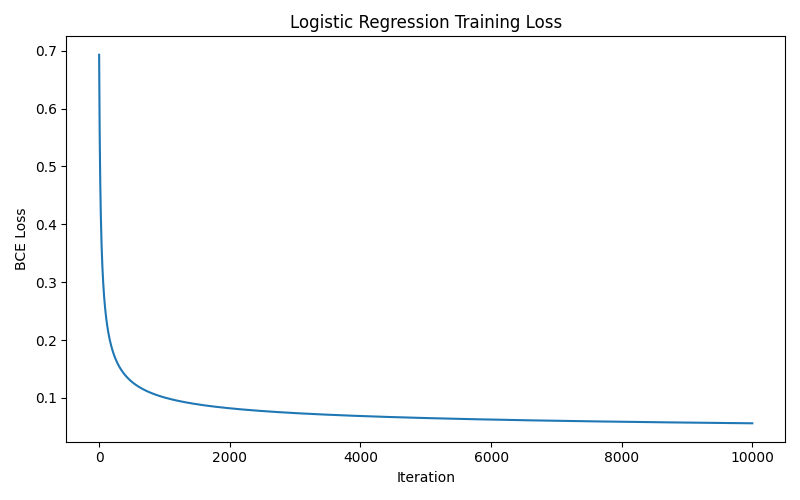
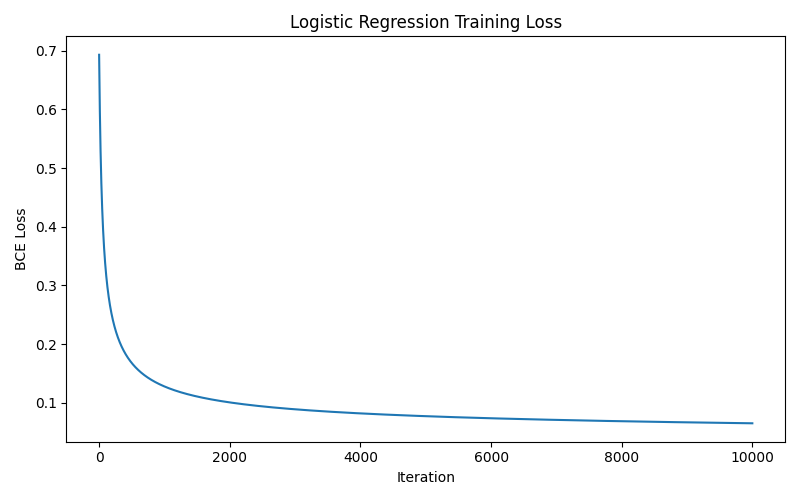
Update README with latest logistic regression results

diff --git a/experiments/compare_learning_rates.py b/experiments/compare_learning_rates.py
@@ -1,0 +1,123 @@
+import sys
+import csv
+from pathlib import Path
+
+# Make sure Python can import files from the project root
+PROJECT_ROOT = Path(__file__).resolve().parents[1]
+sys.path.append(str(PROJECT_ROOT))
+
+from src.data import load_breast_cancer_dataset, train_test_split_numpy
+from src.preprocessing import standardize_fit, standardize_transform, add_bias_term
+from src.logistic_regression import LogisticRegressionGD
+from src.metrics import classification_report_binary
+
+
+def main():
+    # Create results folder if needed
+    results_dir = PROJECT_ROOT / "results"
+    results_dir.mkdir(exist_ok=True)
+
+    # Load and split the dataset
+    X, y, feature_names, target_names = load_breast_cancer_dataset()
+
+    X_train, X_test, y_train, y_test = train_test_split_numpy(
+        X,
+        y,
+        test_size=0.2,
+        random_state=42
+    )
+
+    # Standardize using training data only
+    mean, std = standardize_fit(X_train)
+
+    X_train_scaled = standardize_transform(X_train, mean, std)
+    X_test_scaled = standardize_transform(X_test, mean, std)
+
+    # Add bias term for logistic regression
+    X_train_bias = add_bias_term(X_train_scaled)
+    X_test_bias = add_bias_term(X_test_scaled)
+
+    # Learning rates to compare
+    learning_rates = [0.001, 0.005, 0.01, 0.05, 0.1]
+
+    results = []
+
+    for lr in learning_rates:
+        print(f"\nTraining model with learning_rate={lr}")
+
+        model = LogisticRegressionGD(
+            learning_rate=lr,
+            max_iter=10000,
+            eps=1e-6,
+            random_state=42
+        )
+
+        model.fit(X_train_bias, y_train)
+
+        y_pred = model.predict(X_test_bias)
+
+        report = classification_report_binary(
+            y_test,
+            y_pred,
+            positive_class=1
+        )
+
+        test_bce = model.bce_loss(X_test_bias, y_test)
+        final_train_loss = model.loss_history_[-1]
+
+        result = {
+            "learning_rate": lr,
+            "accuracy": report["accuracy"],
+            "precision": report["precision"],
+            "recall": report["recall"],
+            "specificity": report["specificity"],
+            "f1": report["f1"],
+            "test_bce": test_bce,
+            "final_train_loss": final_train_loss,
+            "n_iter": model.n_iter_
+        }
+
+        results.append(result)
+
+        print(f"Accuracy: {report['accuracy']:.4f}")
+        print(f"F1: {report['f1']:.4f}")
+        print(f"Test BCE: {test_bce:.4f}")
+        print(f"Iterations: {model.n_iter_}")
+
+    # Save comparison results
+    output_path = results_dir / "learning_rate_comparison.csv"
+
+    with open(output_path, mode="w", newline="") as file:
+        fieldnames = [
+            "learning_rate",
+            "accuracy",
+            "precision",
+            "recall",
+            "specificity",
+            "f1",
+            "test_bce",
+            "final_train_loss",
+            "n_iter"
+        ]
+
+        writer = csv.DictWriter(file, fieldnames=fieldnames)
+        writer.writeheader()
+        writer.writerows(results)
+
+    print(f"\nLearning rate comparison saved to: {output_path}")
+
+    # Select best learning rate by F1 score, then by lower test BCE
+    best_result = sorted(
+        results,
+        key=lambda row: (-row["f1"], row["test_bce"])
+    )[0]
+
+    print("\nBest learning rate based on F1 and test BCE:")
+    print(f"learning_rate: {best_result['learning_rate']}")
+    print(f"F1: {best_result['f1']:.4f}")
+    print(f"Test BCE: {best_result['test_bce']:.4f}")
+    print(f"Accuracy: {best_result['accuracy']:.4f}")
+
+
+if __name__ == "__main__":
+    main()

diff --git a/experiments/run_experiment.py b/experiments/run_experiment.py
@@ -57,7 +57,7 @@ def main():
 
     # Create and train the logistic regression model
     model = LogisticRegressionGD(
-        learning_rate=0.01,
+        learning_rate=0.005,
         max_iter=10000,
         eps=1e-6,
         random_state=42
